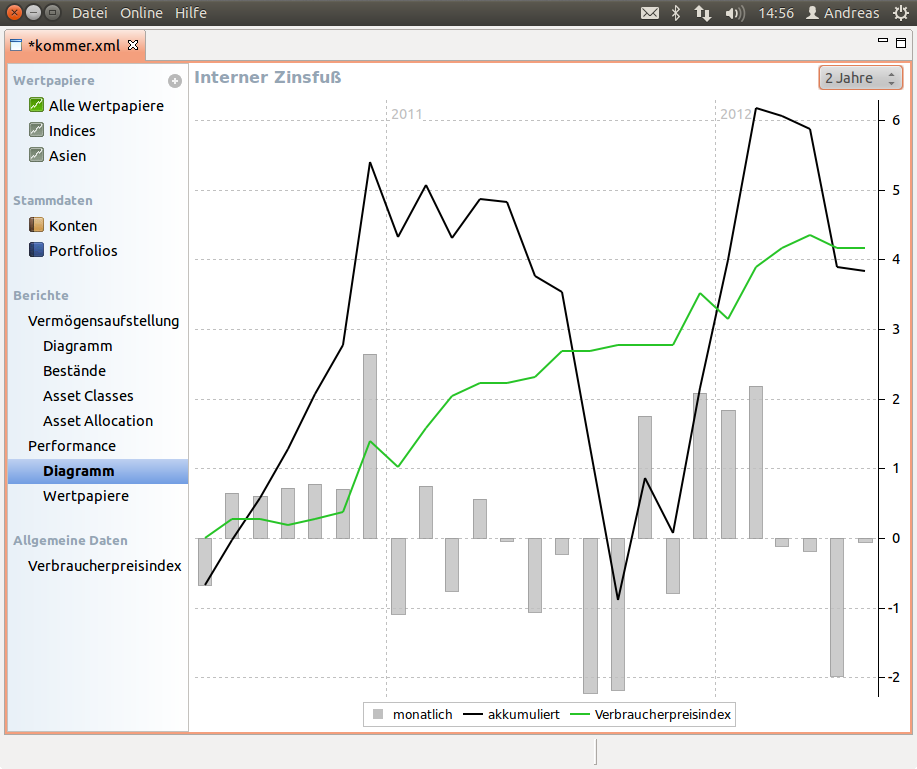
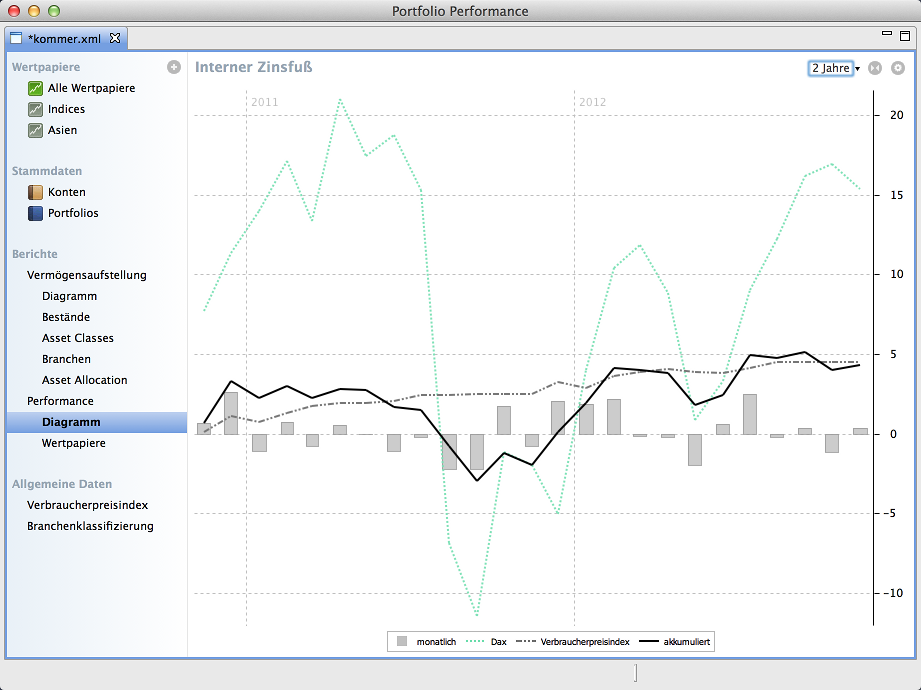
Update to 0.7.0

diff --git a/new_and_noteworthy.html b/new_and_noteworthy.html
@@ -2,22 +2,22 @@
 <html xmlns="http://www.w3.org/1999/xhtml" xml:lang="de" lang="de">
 <head>
     <title>Portfolio Performance - New &amp; Noteworthy</title>
-    <meta http-equiv="Content-Type" content="text/html; charset=UTF-8"/> 
+    <meta http-equiv="Content-Type" content="text/html; charset=UTF-8"/>
+    <meta name="description" content="Übersicht über die neuesten Funktionen im Open Source Programm Portfolio Performance.">
+
     <link rel="icon" type="image/gif" href="images/pp_16.gif" />
     <link rel="stylesheet" type="text/css" href="css/styles.css" />
-<script type="text/javascript">
+    <script type="text/javascript">
+      var _gaq = _gaq || [];
+      _gaq.push(['_setAccount', 'UA-34744550-1']);
+      _gaq.push(['_trackPageview']);
 
-  var _gaq = _gaq || [];
-  _gaq.push(['_setAccount', 'UA-34744550-1']);
-  _gaq.push(['_trackPageview']);
-
-  (function() {
-    var ga = document.createElement('script'); ga.type = 'text/javascript'; ga.async = true;
-    ga.src = ('https:' == document.location.protocol ? 'https://ssl' : 'http://www') + '.google-analytics.com/ga.js';
-    var s = document.getElementsByTagName('script')[0]; s.parentNode.insertBefore(ga, s);
-  })();
-
-</script>
+      (function() {
+        var ga = document.createElement('script'); ga.type = 'text/javascript'; ga.async = true;
+        ga.src = ('https:' == document.location.protocol ? 'https://ssl' : 'http://www') + '.google-analytics.com/ga.js';
+        var s = document.getElementsByTagName('script')[0]; s.parentNode.insertBefore(ga, s);
+      })();
+    </script>
 </head>
 
 <body>
@@ -29,6 +29,59 @@
 <h1><img src="images/pp_48.gif" width="48" height="48" alt="logo" valign="bottom"/> New & Noteworthy</h1>
 
 <p>Hier eine Liste mit den grösseren und interessanteren Änderungen in <a href="index.html">Portfolio Performance</a>.</p>
+
+<h2>Version 0.7.0 (11. November 2012)</h2>
+
+
+<table class="news">
+<tbody>
+<tr>
+<td class="title">Neue Bespieldatei: dax.xml</td>
+<td class="content">Im Installationsverzeichnis gibt es eine neue Datei <strong>dax.xml</strong>, die ein prototypisches DAX Investment trackt.
+</td>
+</tr>
+
+<tr>
+<td class="title">Klassifizierung der Branchen</td>
+<td class="content">Zur besseren Auswertung kann jetzt jedes Wertpapier einer Branche zugeordnet werden:
+<p>
+  <ul>
+    <li>Wählen Sie zunächst ein System zur Klassifzierung: Zur Verfügung steht der <a href="http://en.wikipedia.org/wiki/Global_Industry_Classification_Standard">Global Industry Classifcation Standard (GICS)</a> oder ein einfacheres zweistufiges System</li>
+    <li>Ordnen Sie dann die Wertpapiere im 'Bearbeiten' Dialog einer Branche zu</li>
+    <li>In der Ansicht 'Vermögensaufstellung - Branchen' stehen anschließend Auswertungen und Export zur Verfügung</li>
+  </ul>
+</p>
+<p>Zur Auswertung kann man eine wunderschöne <a href="http://de.wikipedia.org/wiki/Tree_Map">TreeMap</a> verwenden. Mit einem Rechtsklick taucht man in eine Branche ab, mit einem Linksklick gelangt man wieder zurück.</p>
+<p><img src="images/nn_industry_treemap.png" alt="Verteilung der Branchen im Portfolio" width="542" height="375"/></p>
+<p>Im Bereich 'Stammdaten' gibt es ein Überblick über die Branchen:</p>
+<p><img src="images/nn_industry_classification.png" alt="Klassifizierung der Branchen" width="542" height="284"/></p>
+<p>Dort kann man auch das Klassifizierungssystem auswählen (Mit der Schaltfläche 'Anwenden' wird die Klassifizierung für die aktuelle Datei aktiviert):</p>
+<p><img src="images/nn_industry_classification_choose.png" alt="Auswahl der Klassifizierung" width="542" height="127"/></p>
+<p>Im Dialog 'Wertpapier bearbeiten' wird eine Branche einem Wertpapier zugeordnet:</p>
+<p><img src="images/nn_industry_edit_security.png" alt="Wertpapier editieren" width="542" height="350"/></p>
+</td>
+</tr>
+
+<tr>
+<td class="title">Performance Chart: Vergleich mit einem anderen Papier</td>
+<td class="content">Dem Performance Chart können nun beliebige andere Papiere zugeordnet werden.  Damit lässt sich die Performance des Portfolio einfach vergleichen. Das funktioniert auch mit einem Index. Der DAX ist zum Beispiel auf Yahoo unter dem Symbol <a href="http://de.finance.yahoo.com/q?s=%5EGDAXI">^GDAXI</a> verfügbar.
+<p><img src="images/nn_irr_chart.png" alt="Interner Zinsfuß mit einem anderen Papier vergleichen" width="542" height="321"/></p>
+</td>
+</tr>
+
+<tr>
+<td class="title">Mehr Exportmöglichkeiten</td>
+<td class="content">Alle Daten aus dem Programm holen! Mit der neuen Version können jetzt auch die Basisdaten der Diagramme als CSV exportiert werden. So lassen sich zum Beispiel sehr einfach Diagramme in Excel erstellen.
+<p>Die Exportfunktion befindet <strong>oben rechts</strong>.</p>
+<p><img src="images/nn_export_asset_diagram.png" alt="Basisdaten der Diagramme exportieren" width="542" height="425"/></p>
+<p>Auch die Asset Klassen lassen sich exportieren:</p>
+<p><img src="images/nn_export_asset_classes.png" alt="Export der Asset Klassen" width="542" height="188"/></p>
+</td>
+</tr>
+</tbody>
+</table>
+
+
 
 <h2>Version 0.6.4 (19. August 2012)</h2>
 
@@ -55,7 +108,7 @@ Seiten von Yahoo, OnVista und Finanzen.net dieses Wertpapiers springen.
 <tr>
 <td class="title">Automatische Aktualisierung</td>
 <td class="content">Mit dem Menü "Nach Aktualisierungen suchen..." werden neue Programmversionen
-installiert. Dabei werden nur die geänderten Komponenten geladen wodurch das Update deutlich schneller wird.
+installiert. Dabei werden nur die geänderten Komponenten geladen, wodurch das Update deutlich schneller wird.
 <p><img src="images/nn_checkforupdates.png" alt="Nach Aktualsierungen suchen" width="542" height="174"/></p>
 <p>Optional kann man in den Einstellung (oder auch 'Benutzervorgaben') festlegen, dass bei jedem Start
 auf vorhanden Updates geprüft wird.</p>

diff --git a/index.html b/index.html
@@ -2,7 +2,9 @@
 <html xmlns="http://www.w3.org/1999/xhtml" xml:lang="de" lang="de">
 <head>
     <title>Portfolio Performance</title>
-    <meta http-equiv="Content-Type" content="text/html; charset=UTF-8"/> 
+    <meta http-equiv="Content-Type" content="text/html; charset=UTF-8"/>
+    <meta name="description" content="Portfolio Performance ist ein Open Source Programm mit dem man die historische Performance und den internen Zinsfuß über mehrere Portfolio hinweg berechnen kann.">
+
     <script type="text/javascript" src="js/jquery-1.7.2.min.js"></script>
     <script type="text/javascript" src="js/jquery.lightbox-0.5.pack.js"></script>
 
@@ -15,19 +17,18 @@
         $('#content .screenshot a').lightBox();
     });
     </script>
-<script type="text/javascript">
+    <script type="text/javascript">
 
-  var _gaq = _gaq || [];
-  _gaq.push(['_setAccount', 'UA-34744550-1']);
-  _gaq.push(['_trackPageview']);
+      var _gaq = _gaq || [];
+      _gaq.push(['_setAccount', 'UA-34744550-1']);
+      _gaq.push(['_trackPageview']);
 
-  (function() {
-    var ga = document.createElement('script'); ga.type = 'text/javascript'; ga.async = true;
-    ga.src = ('https:' == document.location.protocol ? 'https://ssl' : 'http://www') + '.google-analytics.com/ga.js';
-    var s = document.getElementsByTagName('script')[0]; s.parentNode.insertBefore(ga, s);
-  })();
-
-</script>
+      (function() {
+        var ga = document.createElement('script'); ga.type = 'text/javascript'; ga.async = true;
+        ga.src = ('https:' == document.location.protocol ? 'https://ssl' : 'http://www') + '.google-analytics.com/ga.js';
+        var s = document.getElementsByTagName('script')[0]; s.parentNode.insertBefore(ga, s);
+      })();
+    </script>
 </head>
 
 <body>
@@ -42,15 +43,17 @@
 inklusive internen Zinsfuß.</p>
 
 <p><ul>
-<li><a href="https://github.com/downloads/buchen/portfolio/PortfolioPerformance-0.6.4-win32.win32.x86.zip">Windows 32bit</a> / 
-<a href="https://github.com/downloads/buchen/portfolio/PortfolioPerformance-0.6.4-win32.win32.x86_64.zip">64bit</a>
-<li><a href="https://github.com/downloads/buchen/portfolio/PortfolioPerformance-0.6.4-macosx.cocoa.x86_64.tar.gz">Mac OS X</a>
-<li><a href="https://github.com/downloads/buchen/portfolio/PortfolioPerformance-0.6.4-linux.gtk.x86.tar.gz">Linux 32bit</a> /
-<a href="https://github.com/downloads/buchen/portfolio/PortfolioPerformance-0.6.4-linux.gtk.x86_64.tar.gz">64bit</a>
+<li><a href="https://github.com/downloads/buchen/portfolio/PortfolioPerformance-0.7.0-win32.win32.x86.zip">Windows 32bit</a> / 
+<a href="https://github.com/downloads/buchen/portfolio/PortfolioPerformance-0.7.0-win32.win32.x86_64.zip">64bit</a>
+<a id="popup">[?]<span>Portfolio Performance ist in Java programmiert. Darum kommt es darauf an, ob die Java Virtual Machine (JVM) in der 32bit oder 64bit Version installiert ist. Das kann man mit dem Befehl <code>java -version</code> auf der Kommandozeile feststellen.</span></a>
+</li>
+<li><a href="https://github.com/downloads/buchen/portfolio/PortfolioPerformance-0.7.0-macosx.cocoa.x86_64.tar.gz">Mac OS X</a></li>
+<li><a href="https://github.com/downloads/buchen/portfolio/PortfolioPerformance-0.7.0-linux.gtk.x86.tar.gz">Linux 32bit</a> /
+<a href="https://github.com/downloads/buchen/portfolio/PortfolioPerformance-0.7.0-linux.gtk.x86_64.tar.gz">64bit</a></li>
 </ul>
 </p>
 
-Aktuelle Version 0.6.4 - <a href="new_and_noteworthy.html">was ist neu?</a>
+Aktuelle Version 0.7.0 - <a href="new_and_noteworthy.html">was ist neu?</a>
 
 <h2>Features</h2>
 
@@ -144,6 +147,12 @@ Aktuelle Version 0.6.4 - <a href="new_and_noteworthy.html">was ist neu?</a>
 </a>
 </div>
 
+<div class="screenshot">
+<a title="Branchenklassifizierung und Auswertung" href="images/shot_industry_classification.png">
+    <img src="images/shot_industry_classification_thumb.png" alt="" width="307" height="230"/>
+</a>
+</div>
+
 <h2>Links</h2>
 <ul>
 	<li><a href="https://github.com/buchen/portfolio/issues">Bug Tracker / Features Requests</a></li>
@@ -154,6 +163,15 @@ Aktuelle Version 0.6.4 - <a href="new_and_noteworthy.html">was ist neu?</a>
 
 <div id="versions">
 <a href="new_and_noteworthy.html">Was ist neu?</a>
+
+<h3>0.7.0 / 11. November 2012</h3>
+<ul>
+    <li>Branchenklassifizierung</li>
+    <li>Performance Chart: Vergleich mit einem anderen Papier (oder Index)</li>
+    <li>Neue Beispieldatei mit einem DAX Investment und Branchen</li>
+    <li>Mehr Exportmöglichkeiten, z.B. Export der Datenbasis von den Diagrammen</li>
+    <li>Unterstützung des MacBook Retina</li>
+</ul>
 
 <h3>0.6.5 / 26. September 2012 (via Online Aktualisierung)</h3>
 <ul>

diff --git a/css/styles.css b/css/styles.css
@@ -66,3 +66,38 @@ font-weight: bold;
 .content {
 width: 80%;
 }
+
+/* hoverpopup */
+
+#popup {
+position: static;
+}
+
+#popup a, #popup a:visited {
+}
+
+#popup span {
+	display: none;
+}
+
+#popup:hover { 
+	background-color: #fdf6e4; 
+}
+
+#popup:hover	{
+	background-color: #fdf6e4;
+	text-indent: 0; /* added the default value */
+}
+
+#popup:hover span {
+	display: block;
+	position: absolute;
+	width: 320px;
+	margin: 5px;
+	padding: 10px;
+	color: #000;
+	font-weight: normal;
+	background: #fdf6e4;
+	text-align: left;
+	border: 1px solid #666;
+}
